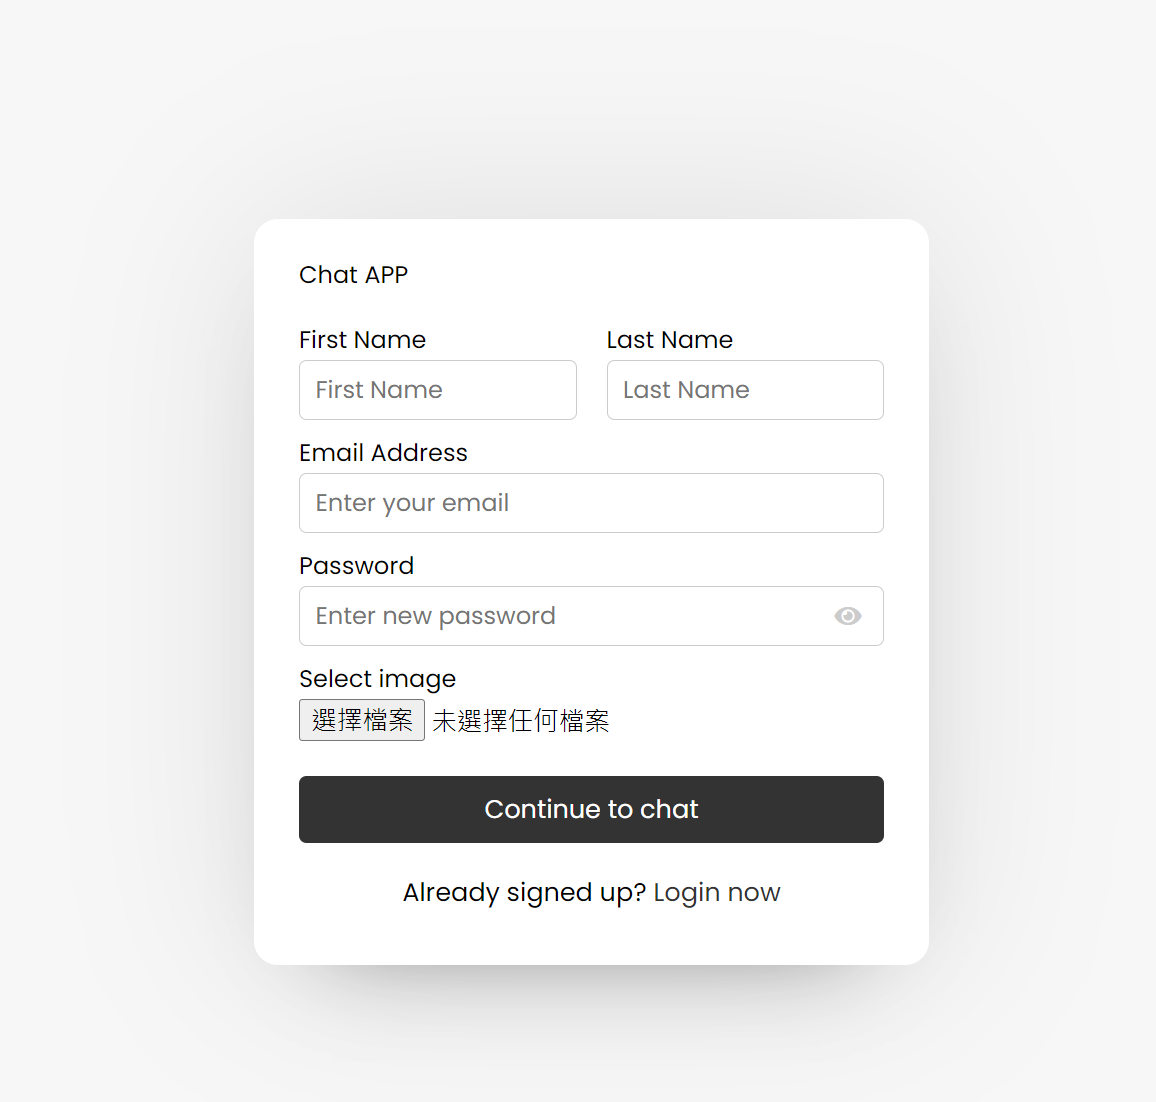
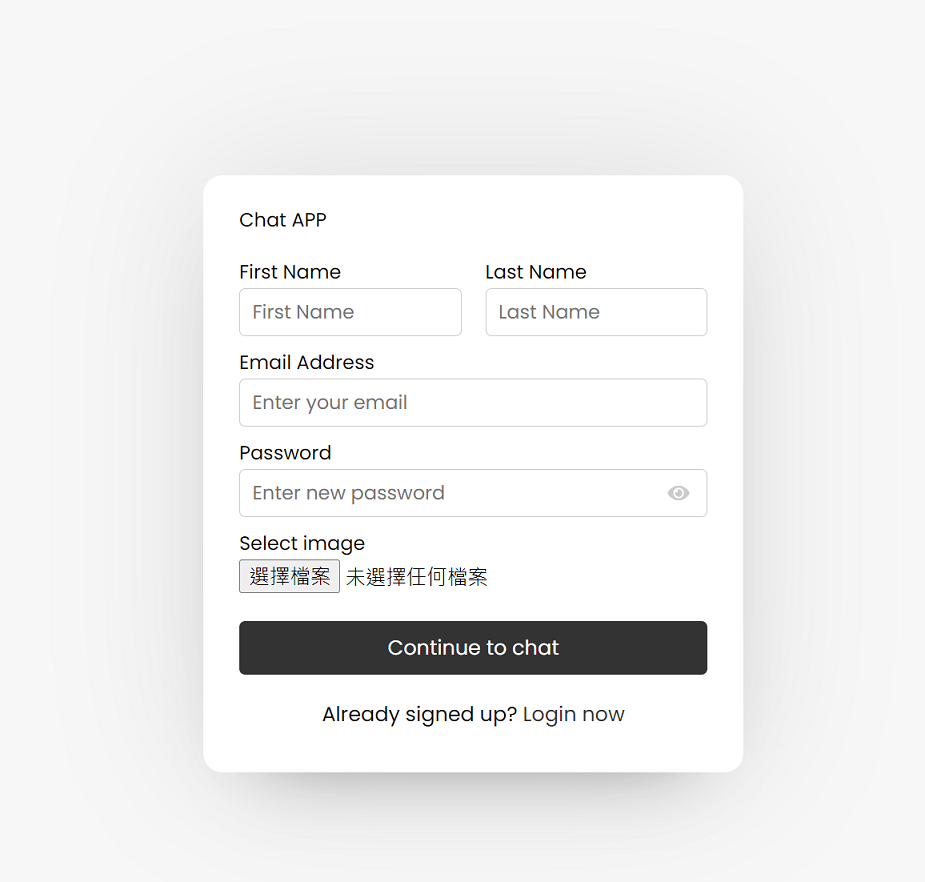
Test1

diff --git a/chatapp/manuals/directory/Users manual.md b/chatapp/manuals/directory/Users manual.md
@@ -2,29 +2,29 @@
 
 ## Sign Up (input data)
 
-<img src="https://github.com/GGbby/Open-source-project---chat-application-webpage/blob/afbbf57f20d9238f3b58e4d62d30c9159595538b/chatapp/manuals/directory/pic/1.png" width="800" height="600">
-<img src="https://github.com/GGbby/Open-source-project---chat-application-webpage/blob/afbbf57f20d9238f3b58e4d62d30c9159595538b/chatapp/manuals/directory/pic/2.png" width="800" height="600">
+![](https://github.com/GGbby/Open-source-project---chat-application-webpage/blob/main/chatapp/manuals/directory/pic/1.png)
+
+![](https://github.com/GGbby/Open-source-project---chat-application-webpage/blob/main/chatapp/manuals/directory/pic/2.png)
 
 ## User List
-<img src="https://github.com/GGbby/Open-source-project---chat-application-webpage/blob/afbbf57f20d9238f3b58e4d62d30c9159595538b/chatapp/manuals/directory/pic/3.png" width="800" height="600">
+![](https://github.com/GGbby/Open-source-project---chat-application-webpage/blob/main/chatapp/manuals/directory/pic/3.png)
 
 
 ## Select Chatmate
-<img src="https://github.com/GGbby/Open-source-project---chat-application-webpage/blob/afbbf57f20d9238f3b58e4d62d30c9159595538b/chatapp/manuals/directory/pic/4.png" width="800" height="600">
+![](https://github.com/GGbby/Open-source-project---chat-application-webpage/blob/main/chatapp/manuals/directory/pic/4.png)
 
 
 ## Chat
-<img src="https://github.com/GGbby/Open-source-project---chat-application-webpage/blob/afbbf57f20d9238f3b58e4d62d30c9159595538b/chatapp/manuals/directory/pic/5.png" width="800" height="600">
-
+![](https://github.com/GGbby/Open-source-project---chat-application-webpage/blob/main/chatapp/manuals/directory/pic/5.png)
 
 ## Log Out
-<img src="https://github.com/GGbby/Open-source-project---chat-application-webpage/blob/afbbf57f20d9238f3b58e4d62d30c9159595538b/chatapp/manuals/directory/pic/6.png" width="800" height="600">
+![](https://github.com/GGbby/Open-source-project---chat-application-webpage/blob/main/chatapp/manuals/directory/pic/6.png)
 
 
 ## Log in
-<img src="https://github.com/GGbby/Open-source-project---chat-application-webpage/blob/afbbf57f20d9238f3b58e4d62d30c9159595538b/chatapp/manuals/directory/pic/7.png" width="800" height="600">
+![](https://github.com/GGbby/Open-source-project---chat-application-webpage/blob/main/chatapp/manuals/directory/pic/7.png)
 
 
 ## Database
-<img src="https://github.com/GGbby/Open-source-project---chat-application-webpage/blob/afbbf57f20d9238f3b58e4d62d30c9159595538b/chatapp/manuals/directory/pic/8.png" width="2000" height="600">
-<img src="https://github.com/GGbby/Open-source-project---chat-application-webpage/blob/afbbf57f20d9238f3b58e4d62d30c9159595538b/chatapp/manuals/directory/pic/9.png" width="2000" height="600">
+![](https://github.com/GGbby/Open-source-project---chat-application-webpage/blob/main/chatapp/manuals/directory/pic/8.png)
+![](https://github.com/GGbby/Open-source-project---chat-application-webpage/blob/main/chatapp/manuals/directory/pic/9.png)
